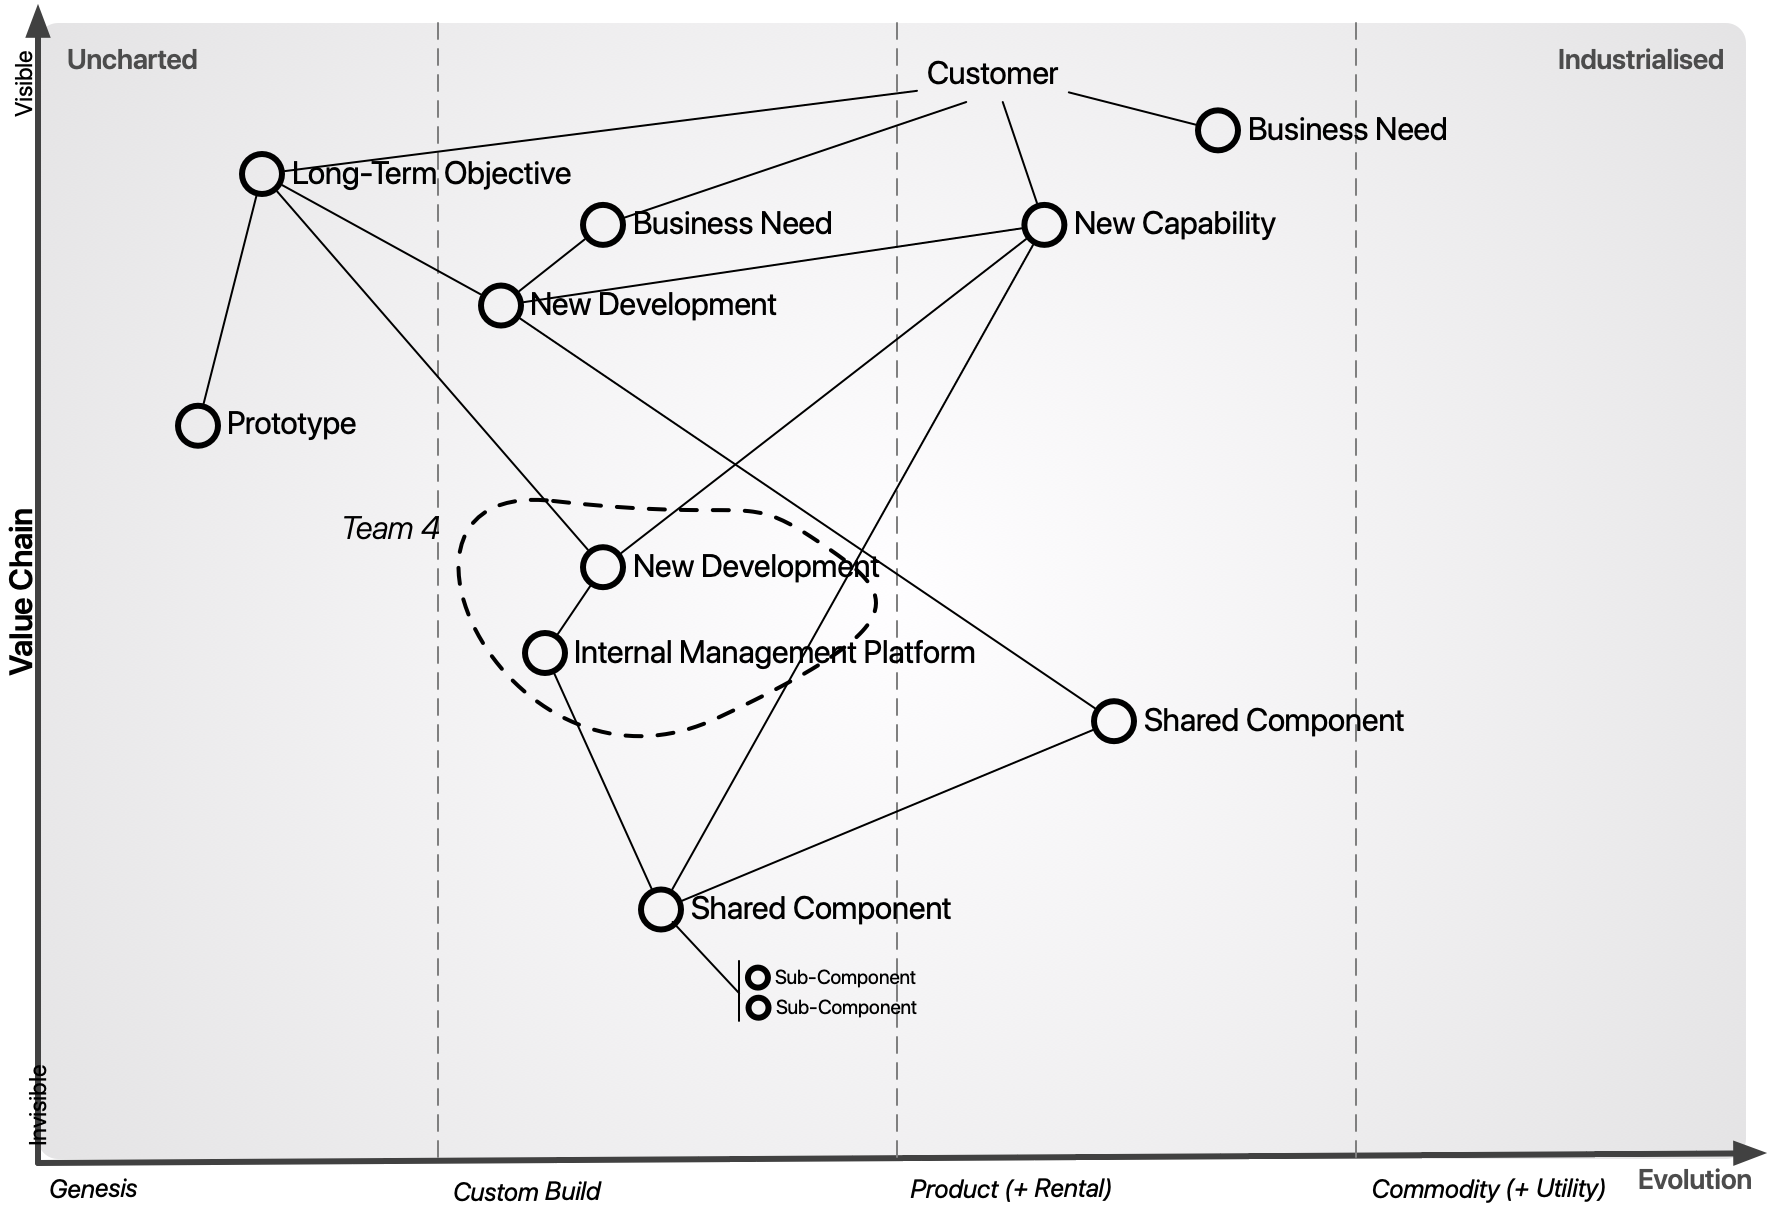
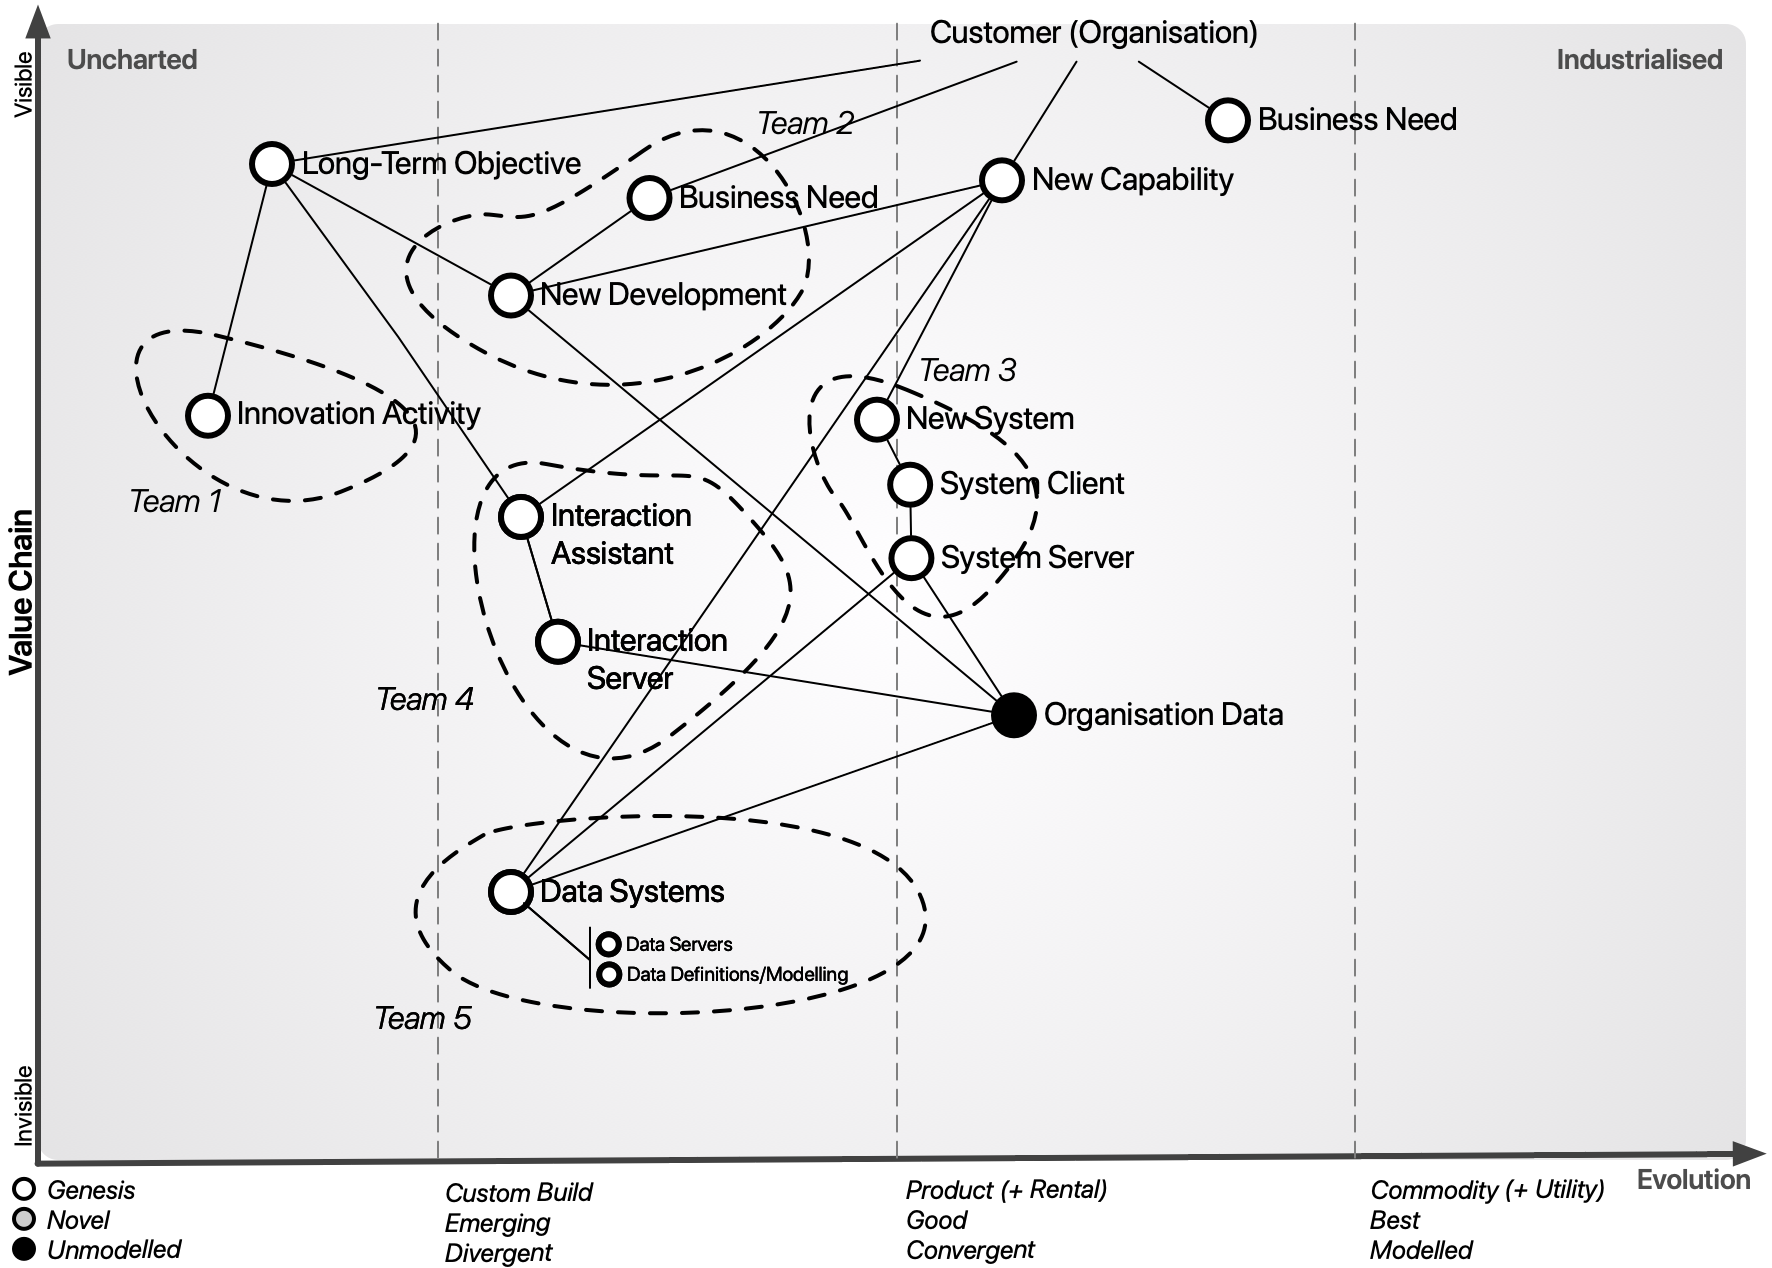
Update article based on review feedback

diff --git a/content/posts/multi-level-wardley-maps.md b/content/posts/multi-level-wardley-maps.md
@@ -1,7 +1,7 @@
 +++
 title = "Multi-Level Wardley Mapping"
 author = ["Matthew Ryall"]
-date = 2020-03-02T00:00:00+00:00
+date = 2020-03-05T00:00:00+00:00
 tags = ["organisations", "Wardley Maps"]
 draft = false
 +++
@@ -91,17 +91,33 @@ activity.
 
 The two previous maps do not show anything about the external environment
 that the group is operating in. We find that a third map can be useful to
-represent this, sometimes focusing on a specific component that we feel
-is worth effort. Mapping the environment of these components helps us
-stay aware of other developments in the space and how things are moving
-relative to what we are doing. i.e. is our work still valuable and is
-the effort still justified. It also helps us to spotlight organisational
+represent this, sometimes focusing on a specific component that we feel is
+worth effort. Mapping the environment of these components helps us stay
+aware of other developments in the space and how things are moving
+relative to what we are doing. i.e. is our work still valuable and is the
+effort still justified. It also helps us to spotlight organisational
 inertia where that is a concern, rather than having these elements as
 secondary items on a more complex map. Figure 3 shows a context map used
 to highlight the constraints on the development of a component due to
 factors within the wider organisation.
 
 {{< figure src="/images/articles/2nd-level-context-wardley-map.png" caption="Figure 3: More Detailed Context Map" >}}
+
+Highlighting the inertia as it relates to this particular team on the map
+is useful only if we can then use this information in some way. In this
+case the context map highlights an incorrect assumption in the previous
+maps - the supporting data component is much more immature than first
+thought. This presents a problem for the team and is not something that
+they can explicitly control. Moving back up to the top-level context
+allows us to see how we can deal with the problem on an organisational
+level and there is a second team assigned to this area. The maps help us
+address this as an explicit element of the organisational strategy. We
+also highlight and detail the team's need and where it may benefit from
+being a user of another team's work. Additionally we can now feed the new
+information into the other maps to correct the position of the data
+component.
+
+{{< figure src="/images/articles/1st-level-organisational-wardley-map-revised.png" caption="Figure 4: Top-level Map Incorporating New Information" >}}
 
 
 ### The Magic Number? {#the-magic-number}
@@ -141,7 +157,7 @@ it:
     the reason for the placing of a particular component on a higher level
     map
 -   The process of producing multiple maps helps to spark discussion around
-    the anchoring points
+    the anchoring points and assumptions that may not hold under scrutiny
 -   The more maps you have the more your mapping overhead. It helps to keep
     things simple and fairly transient, especially for the more detailed
     representations that become outdated very quickly
